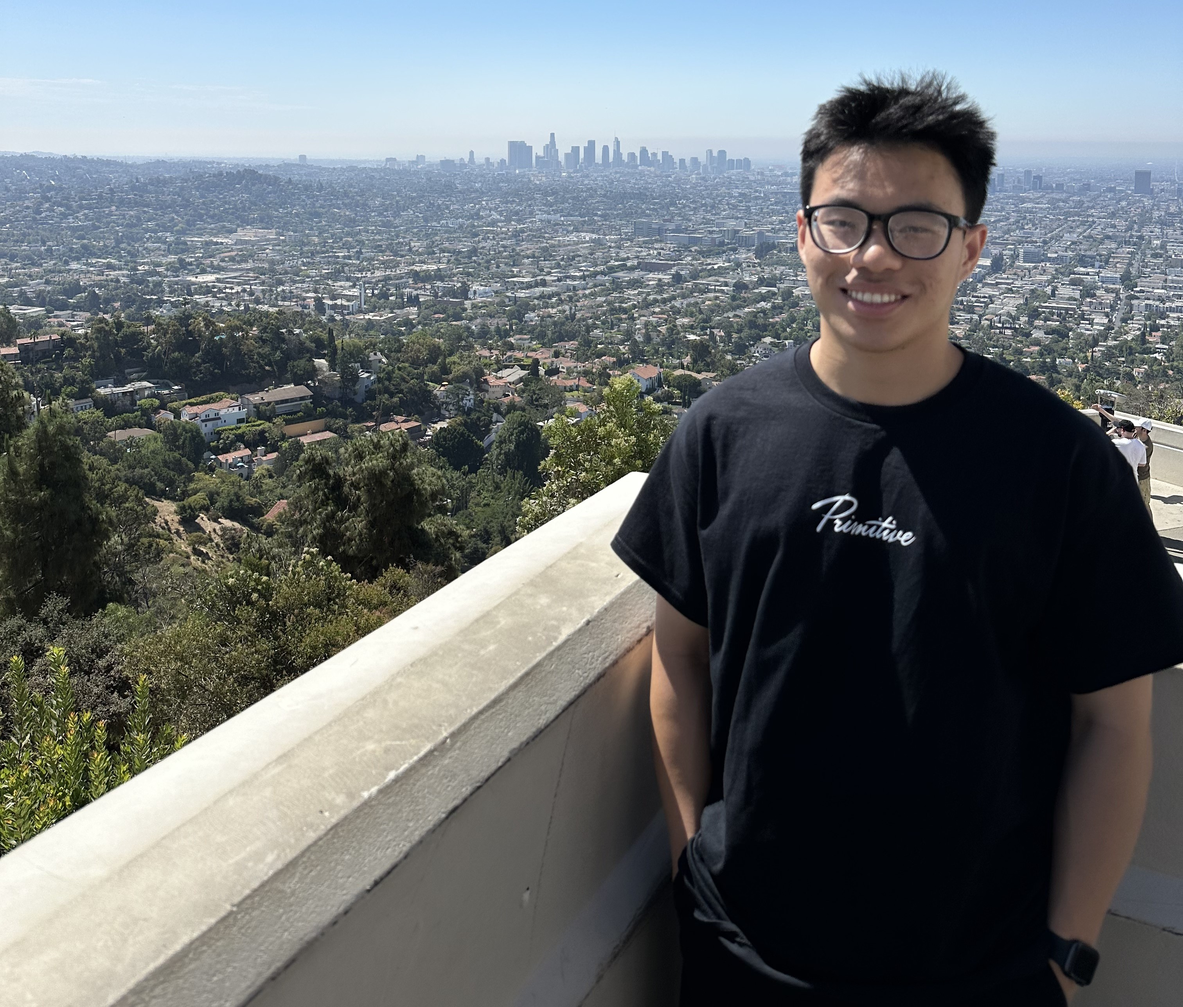
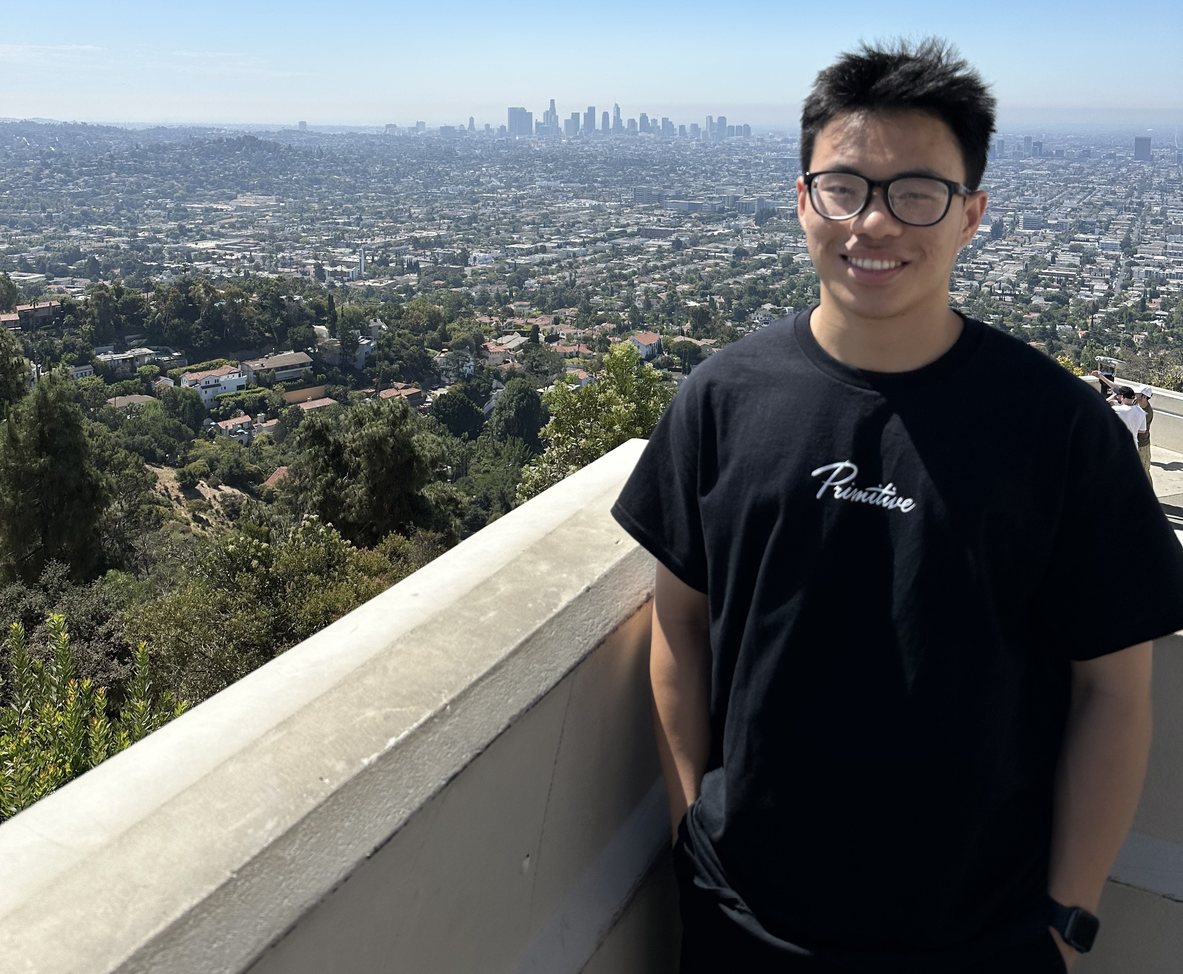
fixed spacing and updated pics in ppl

diff --git a/AOA/src/Components/People.jsx b/AOA/src/Components/People.jsx
@@ -1,7 +1,8 @@
 import React from "react";
 import style from "../styles/people.module.css";
 
-import mountain from "../assets/mountains.jpg";
+import justin from "../assets/justin.jpg";
+import shawn from "../assets/shawn.jpg";
 import kinsey from "../assets/kinsey.jpeg";
 import { FaUser, FaInstagram, FaLinkedin } from "react-icons/fa";
 
@@ -11,22 +12,28 @@ export default function People() {
         <div className={style.container}>
             <div className={style.cardContainer}>
                 <div className={style.card}>
-                    <img src={mountain} alt="jin" />
-                    <label><FaUser/> Justin Duong</label>
-                    <a href="https://www.instagram.com/duong.justin/" target="_blank" rel="noopener noreferrer"><FaInstagram /></a>
-                    <a href="https://www.linkedin.com" target="_blank" rel="noopener noreferrer"><FaLinkedin /></a>
+                    <img src={justin} alt="jin" />
+                    <label><FaUser /> Justin Duong</label>
+                    <div className={style.socialMedia}>
+                        <a href="https://www.instagram.com/duong.justin/" target="_blank" rel="noopener noreferrer"><FaInstagram /></a>
+                        <a href="https://www.linkedin.com" target="_blank" rel="noopener noreferrer"><FaLinkedin /></a>
+                    </div>
                 </div>
                 <div className={style.card}>
-                    <img src={mountain} alt="flow" />
-                    <label><FaUser/> Shawn Nguyen</label>
-                    <a href="https://www.instagram.com/awkward_raisin/" target="_blank" rel="noopener noreferrer"><FaInstagram /></a>
-                    <a href="https://www.linkedin.com" target="_blank" rel="noopener noreferrer"><FaLinkedin /></a>
+                    <img src={shawn} alt="flow" />
+                    <label><FaUser /> Shawn Nguyen</label>
+                    <div className={style.socialMedia}>
+                        <a href="https://www.instagram.com/awkward_raisin/" target="_blank" rel="noopener noreferrer"><FaInstagram /></a>
+                        <a href="https://www.linkedin.com" target="_blank" rel="noopener noreferrer"><FaLinkedin /></a>
+                    </div>
                 </div>
                 <div className={style.card}>
                     <img src={kinsey} alt="grayson" />
-                    <label><FaUser/> Kinsey Vo</label>
-                    <a href="https://www.instagram.com/kinsey.vo/?hl=en" target="_blank" rel="noopener noreferrer"><FaInstagram /></a>
-                    <a href="https://www.linkedin.com/in/kinsey-vo/" target="_blank" rel="noopener noreferrer"><FaLinkedin /></a>
+                    <label><FaUser /> Kinsey Vo</label>
+                    <div className={style.socialMedia}>
+                        <a href="https://www.instagram.com/kinsey.vo/?hl=en" target="_blank" rel="noopener noreferrer"><FaInstagram /></a>
+                        <a href="https://www.linkedin.com/in/kinsey-vo/" target="_blank" rel="noopener noreferrer"><FaLinkedin /></a>
+                    </div>
                 </div>
             </div>
         </div>

diff --git a/AOA/src/data/lore.js b/AOA/src/data/lore.js
@@ -219,9 +219,9 @@ const lore = [
                 image: "gwe.jpeg"
             },
             {
-                name: "gwe",
-                description: "gwe",
-                date: "sometime in 2024",
+                name: "Ice Skating + KBBQ",
+                description: "Three asians eat ice and Shawn gets banned from rice paper.",
+                date: "January 19, 2024",
                 image: "gwe.jpeg"
             },
             {
@@ -229,7 +229,36 @@ const lore = [
                 description: "gwe",
                 date: "sometime in 2024",
                 image: "gwe.jpeg"
-            }
+            },
+            {
+                name: "_____",
+                description: "_______",
+                date: "sometime in 2024",
+                image: "gwe.jpeg"
+            },
+        ]
+    },
+    {
+        year: 2025,
+        events: [
+            {
+                name: "Starship Escape Room",
+                description: "With Justin as the Gunner, Shawn as the Pilot, and Kinsey as the Engineer, what could possibly go wrong?",
+                date: "January 3, 2025",
+                image: "starship.jpg"
+            },
+            {
+                name: "gwe",
+                description: "gwe",
+                date: "sometime in 2025",
+                image: "gw.jpeg"
+            },
+            {
+                name: "_____",
+                description: "_______",
+                date: "sometime in 2025",
+                image: "gwe.jpeg"
+            },
         ]
     }
 ];

diff --git a/AOA/src/styles/people.module.css b/AOA/src/styles/people.module.css
@@ -51,6 +51,7 @@ body, html {
     height: auto;
     object-fit: cover;
     border-radius: 10px;
+    margin-bottom: 5px;
 }
 
 .card:hover {
@@ -71,8 +72,25 @@ body, html {
 
 .socialMedia {
     display: flex;
+    justify-content: center;
     gap: 10px;
     font-size: 1.5em;
+    margin-top: 10px;
+}
+
+.socialMedia a {
+    color: white;
+    text-decoration: none;
+    transition: color 0.3s ease;
+}
+
+.socialMedia a:hover {
+    color: #0099ff;
+}
+
+.card label {
+    margin-top: 10px;
+    font-size: 1.2em;
 }
 
 @media (max-width: 768px) {
